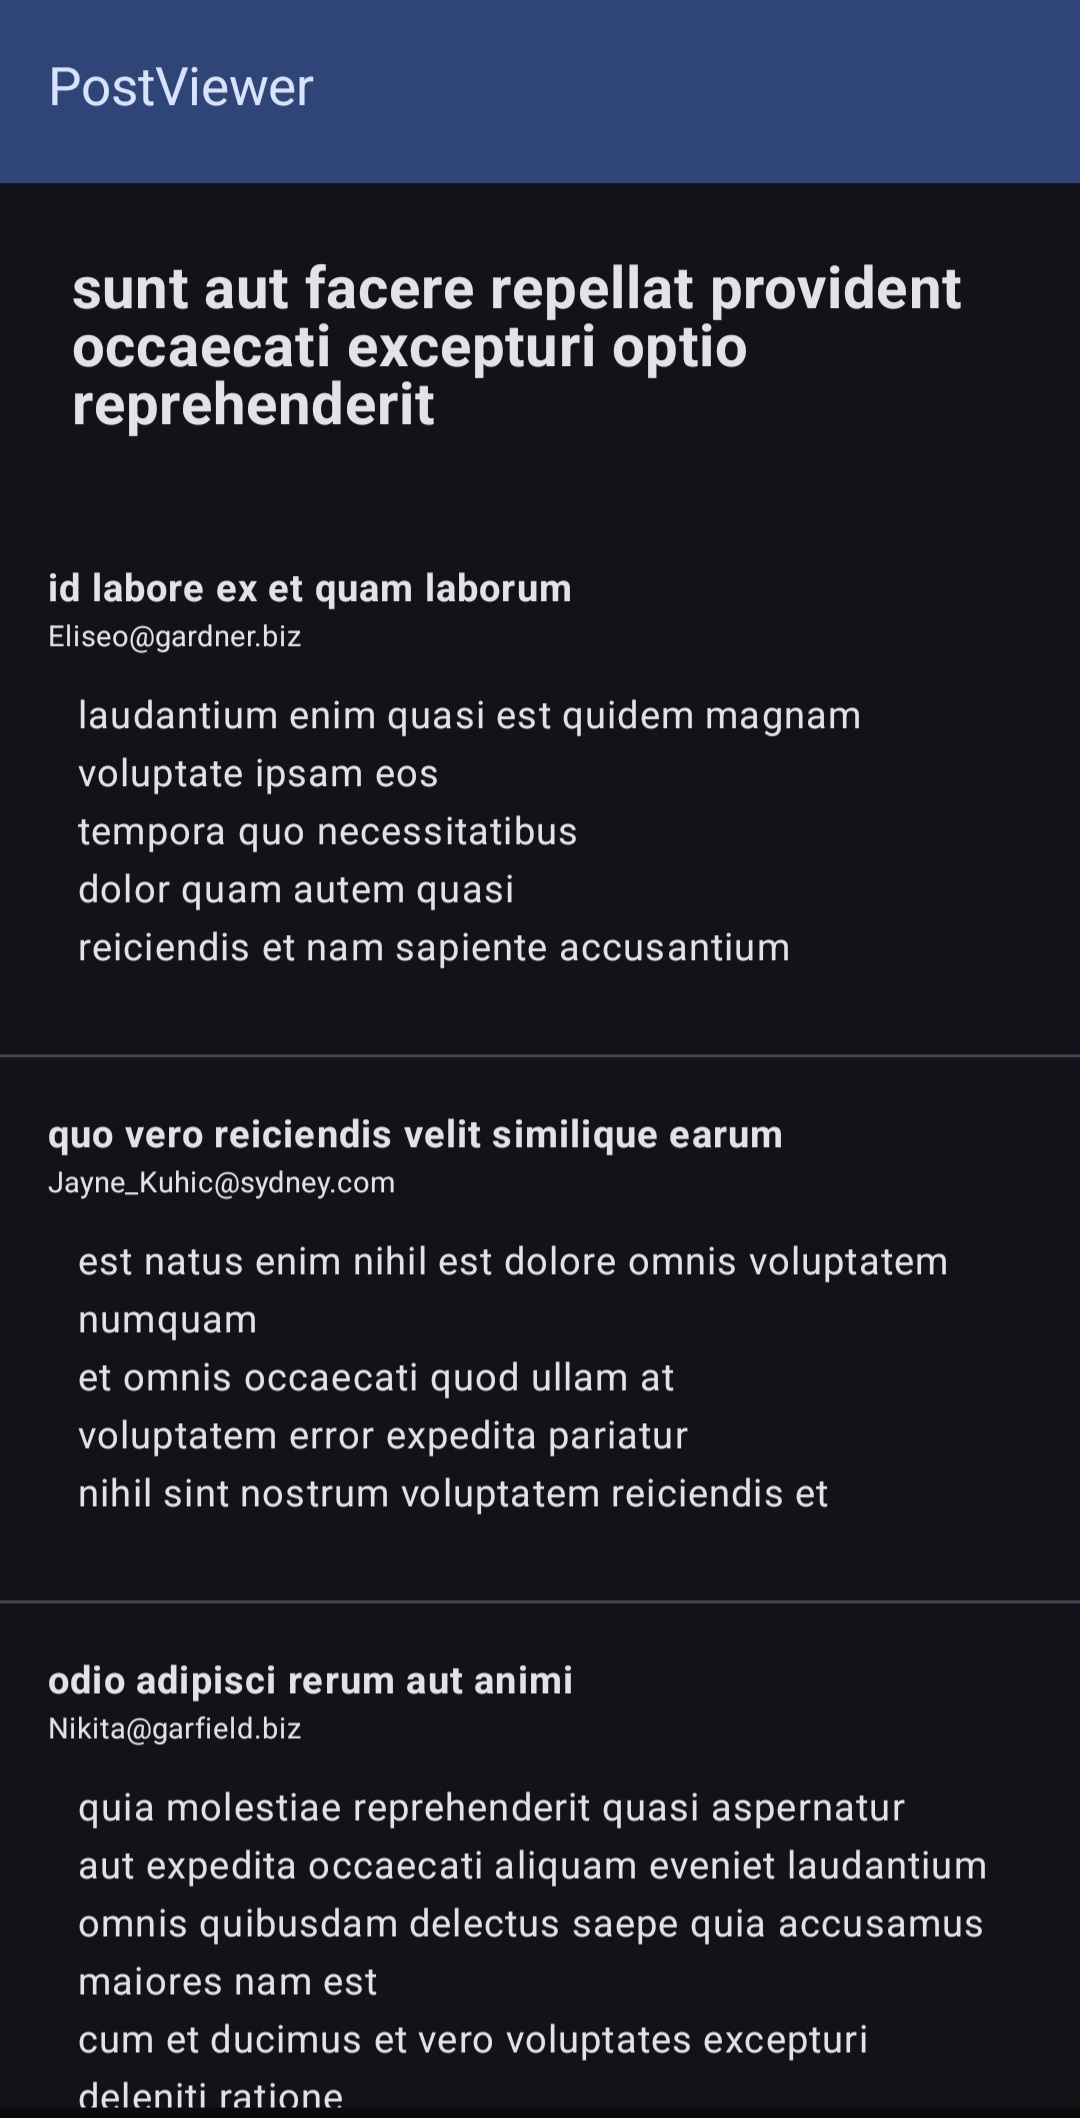
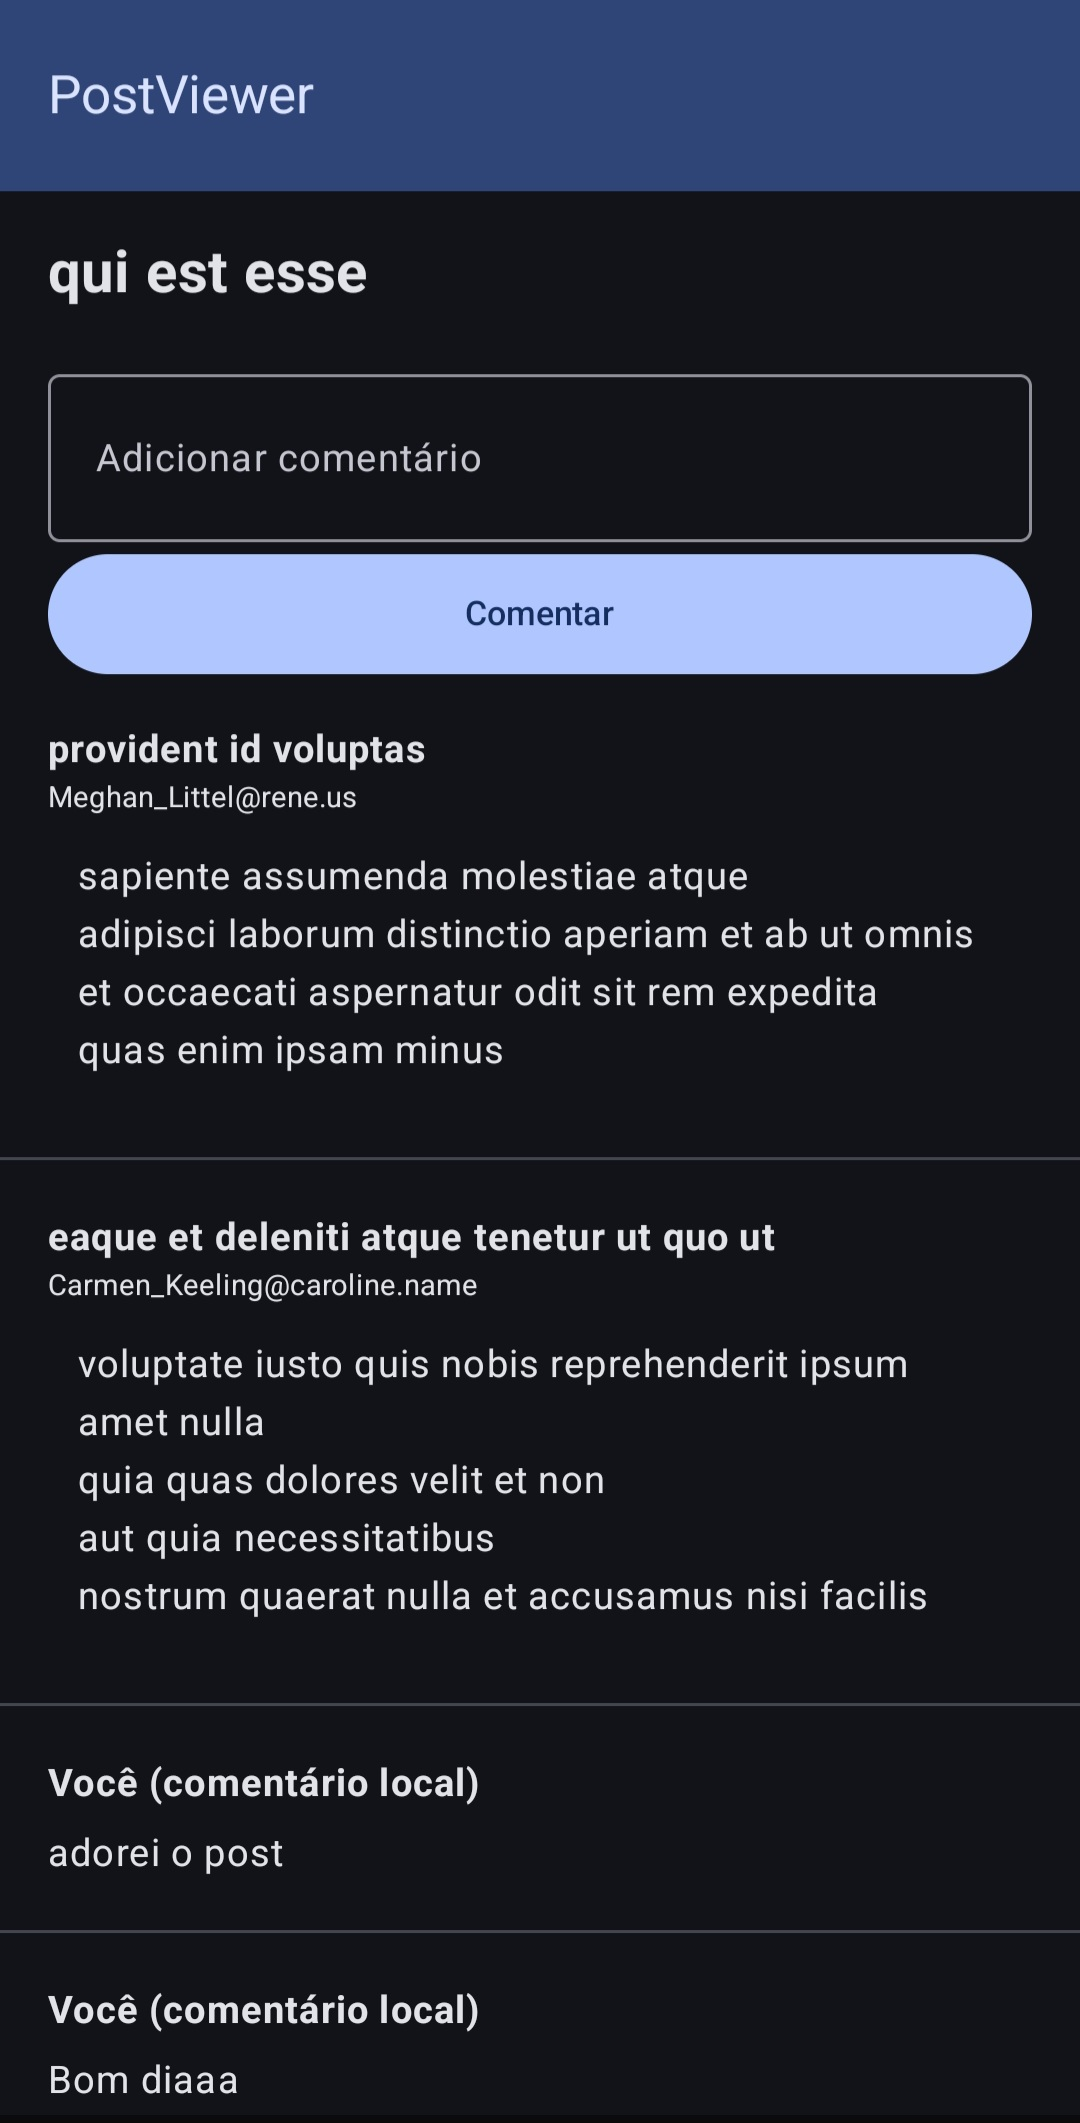
docs: update README with Room local comment feature

diff --git a/README.md b/README.md
@@ -14,6 +14,7 @@ Aplicativo Android que consome a API pública [JSONPlaceholder](https://jsonplac
 - **Tela de Lista de Posts**: carrega `GET /posts` e exibe o título de cada post. Ao tocar em um item, o app navega para a tela de detalhes do post correspondente.
 - **Tela de Detalhes do Post**: carrega `GET /posts/{id}/comments` e exibe o título do post junto com a lista de comentários da API.
 - **Estados de carregamento e erro**: ambas as telas exibem um indicador de carregamento enquanto a requisição está em andamento e uma mensagem de erro caso a chamada falhe.
+- **Adição de comentário local (Room)**: na tela de detalhes, o usuário pode digitar um comentário em um campo de texto e confirmá-lo com um botão. O comentário é salvo no banco de dados Room associado ao post, aparece imediatamente na lista junto com os comentários da API, e persiste entre sessões do app.
 
 ## ▶️ Como executar o projeto localmente
 
@@ -31,6 +32,7 @@ Não é necessária nenhuma configuração adicional (chave de API, variáveis d
 - **Jetpack Compose** — construção da interface
 - **Navigation Compose** — navegação entre a lista de posts e os detalhes
 - **Retrofit + Gson Converter** — consumo da API REST
+- **Room** — persistência local dos comentários adicionados pelo usuário
 - **ViewModel + StateFlow** — gerenciamento de estado (posts, comentários, carregamento e erro)
 
 ## 💡 Decisões de design
@@ -45,11 +47,14 @@ Não é necessária nenhuma configuração adicional (chave de API, variáveis d
 - **Tratamento de loading e erro nas telas**: exigido pela especificação do trabalho; evita assumir que toda chamada à API terá sucesso, melhorando a experiência do usuário em
   caso de falha de rede.
 
+- **Room**: persistência local simples e integrada ao Kotlin, usada para guardar os comentários adicionados pelo usuário associados ao post, sem depender de servidor.
+
 ## 📸 Capturas de tela
 
 As capturas de tela estão na pasta [`docs/`](docs/):
 
 - `PostsScreen.jpg`: tela de lista de posts com dados carregados da API.
-- `DetailsScreen.jpg`: tela de detalhes de um post com os comentários da API visíveis.
+- `DetailsScreen.jpg`: tela de detalhes de um post com os comentários da API visíveis (a imagem ainda será atualizada para mostrar também um comentário local adicionado pelo usuário).
+
 
 